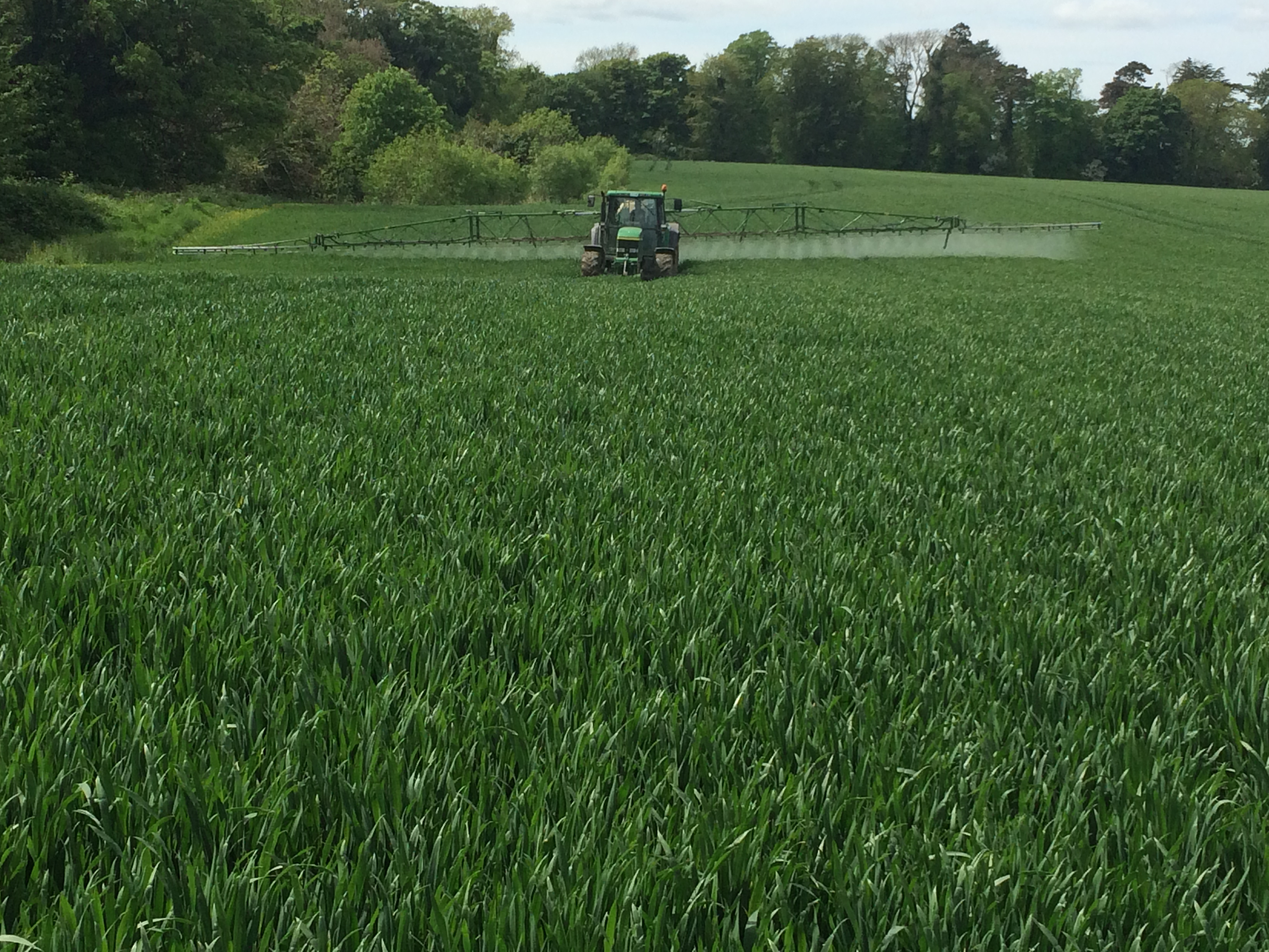
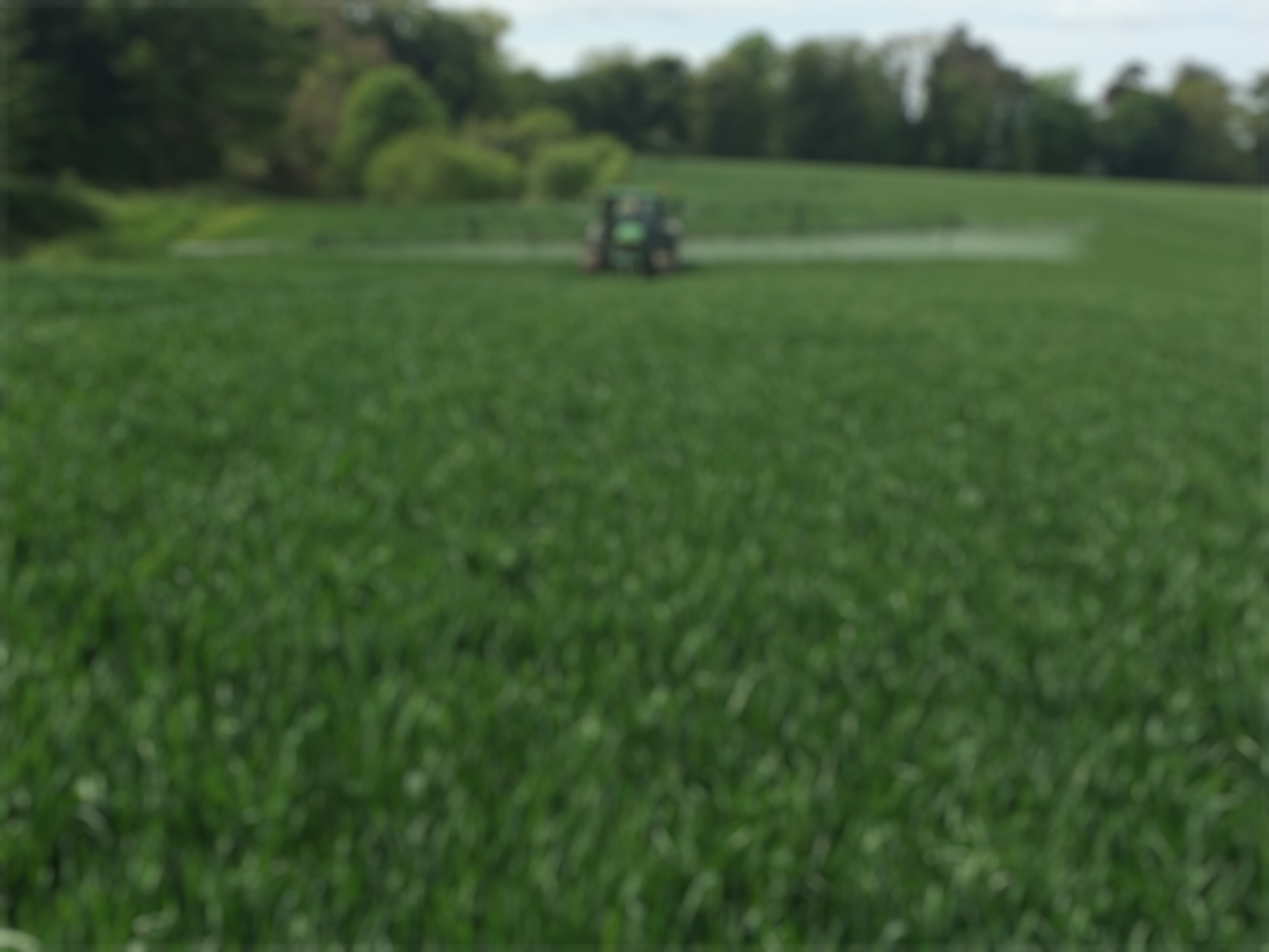
blurred the spray photo, added long form for r&d and potato storage

diff --git a/pages/r-and-d.html b/pages/r-and-d.html
@@ -76,14 +76,36 @@ and sustainable needs of growers and processors.</p>
 <div style="width: 5px;"></div>
 <img src="../img/Potato_Trials_3.jpeg" style="width: 60%;">
 </div>
+
+
+<p>Annual Open Day where growers, breeders and processers meet and view field plots and discuss
+results.</br></br>
+
+Over the years, our dedicated growers have encountered evolving challenges, including rising production costs, heightened restrictions on fertilizer usage, and the continuous reduction of available chemical options in potato cultivation. The imperative for varieties with a minimal carbon footprint is particularly pronounced in the potato sector, where the landscape is becoming increasingly demanding annually.<br>
+</br>
+In response to these challenges, we made a strategic decision to seek out and develop new potato varieties that not only excel under these criteria but also align with the specific requirements of Crisping Processors and Fresh Chip needs. To ensure the suitability of the varieties at different stages in storage and throughout the calendar year, we actively engaged Crisping Processors in the evaluation process.<br>
+</br>
+In 2021, we proactively reached out to various potato breeders across Europe to identify new potato varieties that are well-suited to Irish growing conditions. Our criteria included performance with reduced fertilizer inputs, adaptability to the changing landscape of plant protection products, and the ability to meet processing specifications from field to store, ensuring excellent cooking quality through July of the following year.<br>
+</br>
+In 2022, we executed our comprehensive plan by planting 28 distinct crisping varieties in 4m x 50m plots, adhering to current farming restrictions. Prior to harvesting, an annual open day event is organized in August, where we extend invitations to all Irish potato growers to observe the growing plots. This event serves as a platform for engaging with representatives from various potato breeders, facilitating discussions on a range of topics related to their varieties, spanning from growing conditions to harvesting and storage attributes.<br>
+</br>
+Following the harvest, the potatoes are carefully stored in commercial facilities, ensuring the preservation of their quality. This meticulous process allows us to deliver not only on our commitment to sustainability but also to provide the industry with high-performing, environmentally conscious potato varieties tailored to the unique demands of Irish growing conditions.<br>
+
+
+</p>
 <div style="display:flex; max-width: 100%; margin: 10px;">
 <img src="../img/Potato_Trials_Main.jpeg" style="width:55%;">
 <div style="width: 5px;"></div>
 <img src="../img/Potato_Trials_1.jpeg" style="width: 45%;">
 </div>
+<p>
+At harvest, we meticulously measured various parameters for all the varieties, including yields, dry matters, tuber counts, sizes, and noted any defects. Additionally, we measured reducing sugars, a critical factor in processing. Defects and sugars were monitored each month from October until the end of June the following year. Our findings from the trials conducted in 2022 have been compiled into a comprehensive report for the benefit of growers and the processing sector. We plan to repeat this process in the current year.<br>
+</br>
+The trial initiative for 2023 has been expanded to include 27 crisp varieties, with the notable addition of Chipping Varieties. For crisping, we meticulously screened and selected varieties based on our trial criteria for 2023, incorporating new ones based on breeder recommendations and stringent variety specifications. Furthermore, we have chosen 20 Chip varieties, following thorough research, breeder recommendations, and discussions with the chipping industry. These varieties are anticipated to thrive under Irish conditions, store effectively, and meet the specifications and cooking quality expected by the industry from field to the end of June out of storage.<br>
+</br>
+Through our trials program, we are dedicated to supporting Irish potato growers in navigating the ever-changing environment, enabling them to grow sustainably and profitably into the future. Our goal is to provide the correct specifications and quality consistently throughout the year, meeting the expectations of the processing industry. Historically, a significant portion of the fresh chip industry has relied on supplies from the UK. The industry cites the lack of potato quality and the unreliability of supply as primary reasons for this reliance.<br>
 
-<p>Annual Open Day where growers, breeders and processers meet and view field plots and discuss
-results.</p>
+</p>
 
 
 		</div>

diff --git a/pages/potato-storage.html b/pages/potato-storage.html
@@ -64,15 +64,26 @@ function hideSidebar() {
 
 			
 			
-			<ul>
-				<li>Storage Disease Control</li>
-				<li>Box stacking layout</li>
-				<li>Loading the store correctly</li>
-				<li>Operating the ventilation system and ensuring the airflow is optimised</li>
-				<li>Minimising air leakage, and so on.</li>
-			</ul>
 
-			
+<p>
+
+Potato storage stands as a pivotal component in contemporary potato production, catering to the diverse demands of various markets. While it can be executed successfully, it is essential to recognize that storage inherently carries risks. The triumph of storage hinges on effective risk management and, ultimately, delivering the quality that customers are willing to pay for. Therefore, ensuring the efficient operation of a storage facility is a critical aspect of managing the entire potato production system.
+</br></br>
+In the face of cost pressures throughout the supply chain, it is imperative to minimize operating costs in storage as much as it is to maximize returns from the enterprise. Consequently, maintaining rigorous control over the storage facility is paramount, ensuring that costs are incurred only when delivering tangible benefits. This control encompasses various aspects, including:
+</br>
+<ul>
+    <li>Servicing and calibrating store equipment before use</li>
+   <li> Box stacking layout</li>
+    <li>Loading the store correctly</li>
+    <li>Operating the ventilation system and optimizing airflow</li>
+    <li>Minimizing air leakage, among others.</li>
+</ul>
+
+</br>Effective store management is a complex process, with multiple points at which problems and inefficiencies can arise, potentially jeopardizing the likelihood of success. It is crucial to note that the crop in storage originated from a field where decisions, ranging from the selection of the potato variety to addressing more intricate issues like the impact of chronological age on dormancy break and the necessity for sprout suppression, can significantly influence its performance in storage.
+</br></br>
+An additional critical determinant of storage success is the presence of an adequately 'set' skin on the crop. Without this characteristic, the storage of potatoes becomes a more intricate and challenging process. Therefore, meticulous attention to the factors influencing storage, coupled with proactive measures throughout the production cycle, is essential for achieving optimal outcomes in potato storage.
+
+</p>			
 
 <h1 id="sprout">Potato Sprout Supressant</h1>
 			<p>Protecting &amp; Preserving your harvest.</br>

diff --git a/pages/concept-fert.html b/pages/concept-fert.html
@@ -64,7 +64,7 @@ function hideSidebar() {
 
 <div class="banner" id="concept"><h1>Concept Fertilisers</h1></div>
 <div class="article">
-<h2>The future of fertilisers</h2>
+<h1>The future of fertilisers</h1>
 <p>Improving fertiliser efficiency is a top priority as farmers rise to the challenge of feeding 9 billion people, whilst minimising their environmental impact.
 
 In response to these needs Haggard Stores has developed its concepts in crop nutrition based on its understanding of the soil’s clay-humus-complex and the soil’s ability to retain nutrients allowing the crop’s reliance on soil micro-organisms to utilise those nutrients.
